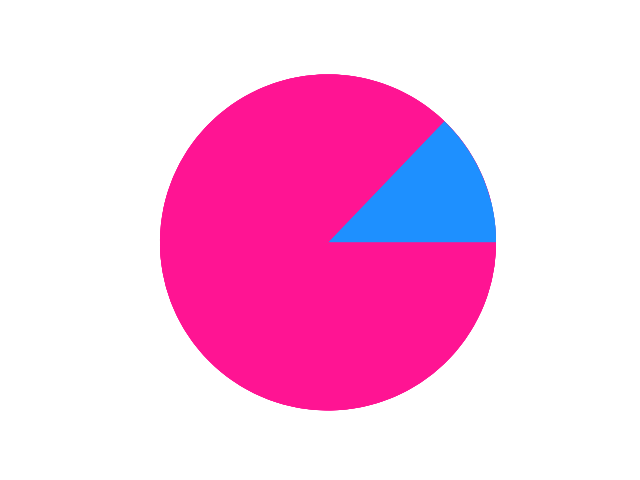
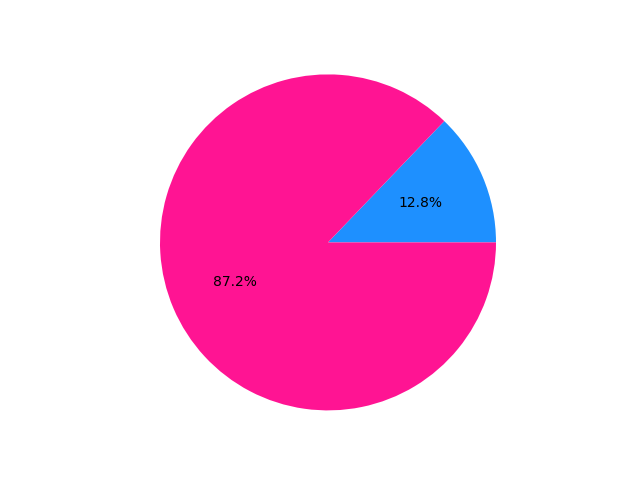
Added the pie-charts for the AD test with percentages.

Changed region(s): [[0.3125, 0.5625, 0.4062, 0.5938], [0.625, 0.4062, 0.6875, 0.4375]]

diff --git a/Scripts/Processed/05_Plot_Statistic_AD_piecharts.py b/Scripts/Processed/05_Plot_Statistic_AD_piecharts.py
@@ -34,7 +34,7 @@ YearS = 2000
 YearF = 2019
 Acc = 24
 SystemNWP_list = ["Reforecasts/ECMWF_46r1", "Reanalysis/ERA5_EDA", "Reanalysis/ERA5", "Reanalysis/ERA5_ecPoint"]
-Domain_Coord_list = [ [90,-169,14,-50], [14, -96, -60, -30], [90, -29, 30, 60], [30,-30,-40,60], [90, 60, 4.3, 180], [4.3, 60, -90, 180] ]
+Domain_Coord_list = [ [90,-170,15,-50], [15, -100, -60, -30], [90, -30, 30, 60], [30,-30,-40,60], [90, 60, 5, 180], [5, 60, -60, 180] ]
 Domain_Name_list = ["North_America", "South_America", "Europe_Mediterranean", "Africa", "Asia", "Oceania"]
 Git_Repo = "/ec/vol/ecpoint_dev/mofp/Papers_2_Write/Verif_ClimateNWP_4Points"
 DirIN = "Data/Compute/03_Statistic_AD"
@@ -59,7 +59,6 @@ for SystemNWP in SystemNWP_list:
       test_AD = (Stat_AD < Crit_Val) * 1 # the value of 1 is given to those locations where the modelled climatology is representative of the observational climatology
 
       #Computing the pie-charts for each considered domain
-      fig,ax = plt.subplots()
       for ind_domain in np.arange(len(Domain_Name_list)):
 
             Domain_Name = Domain_Name_list[ind_domain]
@@ -70,11 +69,12 @@ for SystemNWP in SystemNWP_list:
             test_AD_domain = test_AD[ind_gp_domain]
 
             # Creating the pie-charts
+            fig,ax = plt.subplots()
             repr = np.where(test_AD_domain == 1)[0].shape[0]
             no_repr = np.where(test_AD_domain == 0)[0].shape[0]
             sizes = [repr, no_repr]
             colors = ["dodgerblue", "deeppink"]
-            ax.pie(sizes, colors=colors, startangle=0)
+            ax.pie(sizes, colors=colors, startangle=0, autopct='%1.1f%%')
             plt.axis('equal')
 
             # Saving the pie-charts
@@ -83,3 +83,4 @@ for SystemNWP in SystemNWP_list:
                   os.makedirs(MainDirOUT)
             FileOUT = Domain_Name + ".png"
             fig.savefig(MainDirOUT + "/" + FileOUT)
+            plt.close()
